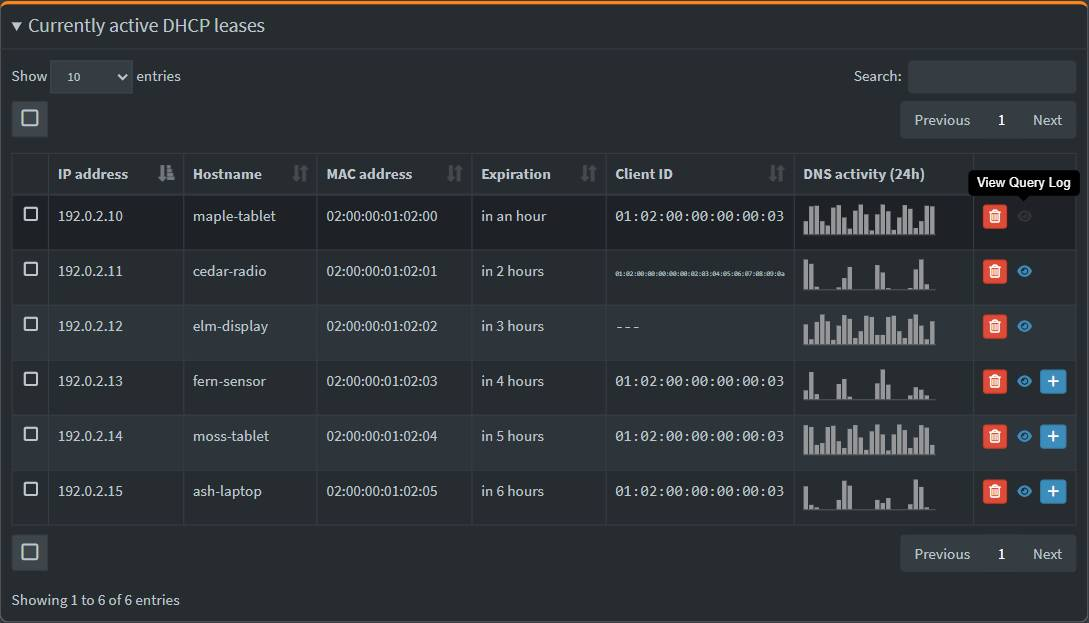
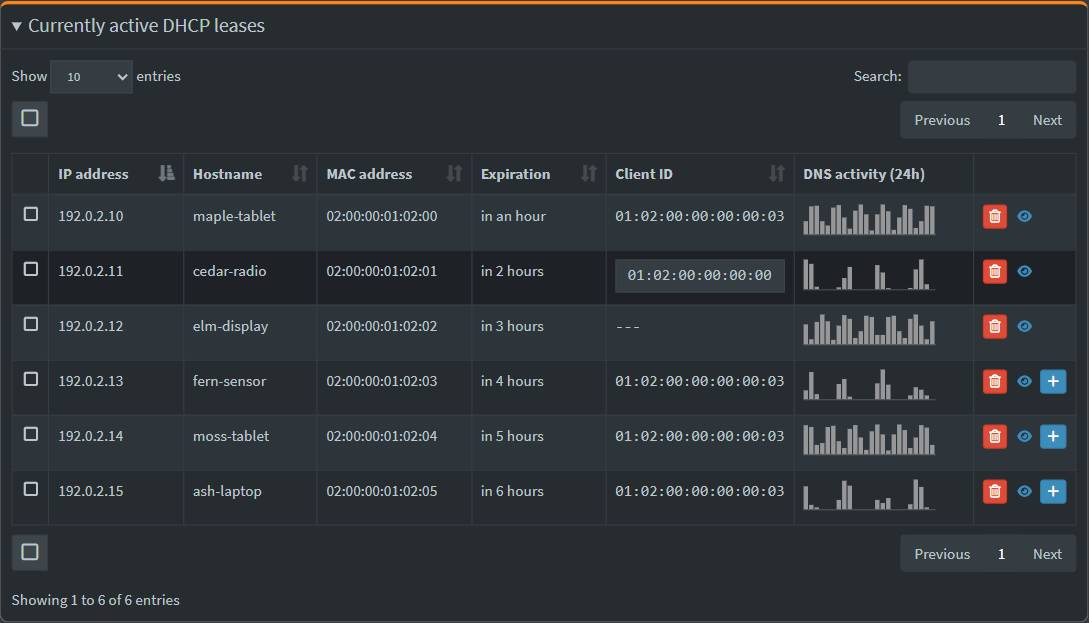
Show long DHCP client IDs in scrollable read-only fields

diff --git a/README.md b/README.md
@@ -66,6 +66,8 @@ Select the eye beside an active lease or static reservation to see queries from 
 3. Edit the draft. Select the checkmark to confirm it or the curved arrow to cancel it.
 4. Select **Save & Apply** to save the confirmed reservation.
 
+Long client IDs appear in a read-only text box. Scroll sideways to read the full ID, or select and copy it.
+
 The **DNS activity (24h)** column immediately after **Client ID** shows one hourly bar per active lease for the past day. Hover over a slot for its UTC interval and query count. A dash means Pi-hole has no per-IP history for that lease.
 
 In this example, the top three devices already have reservations. The bottom three have a **+** button.
